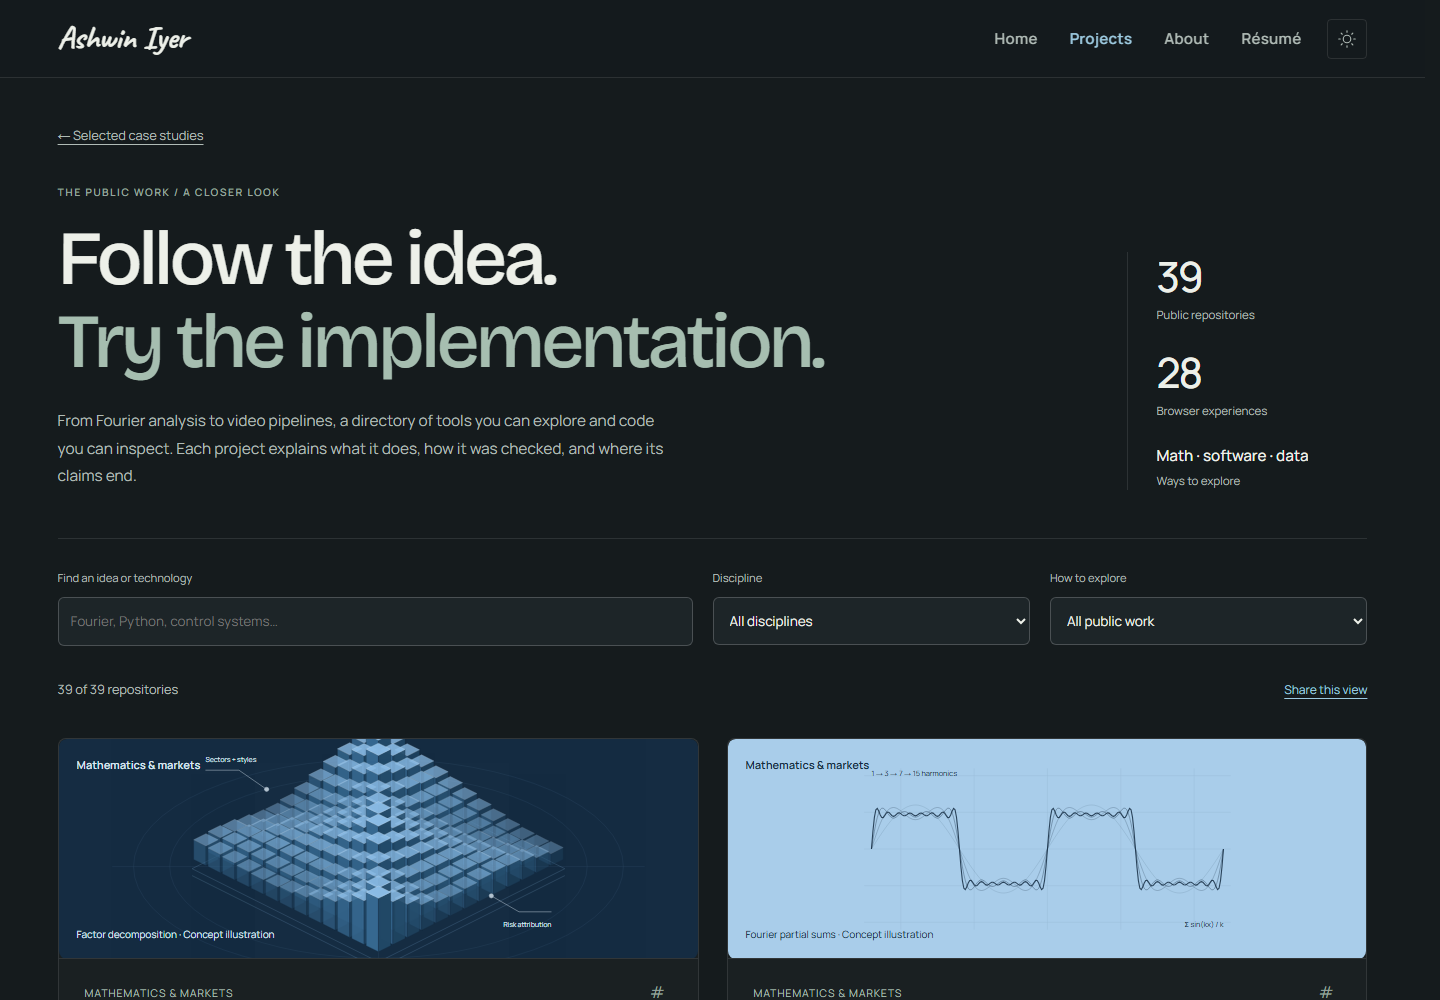
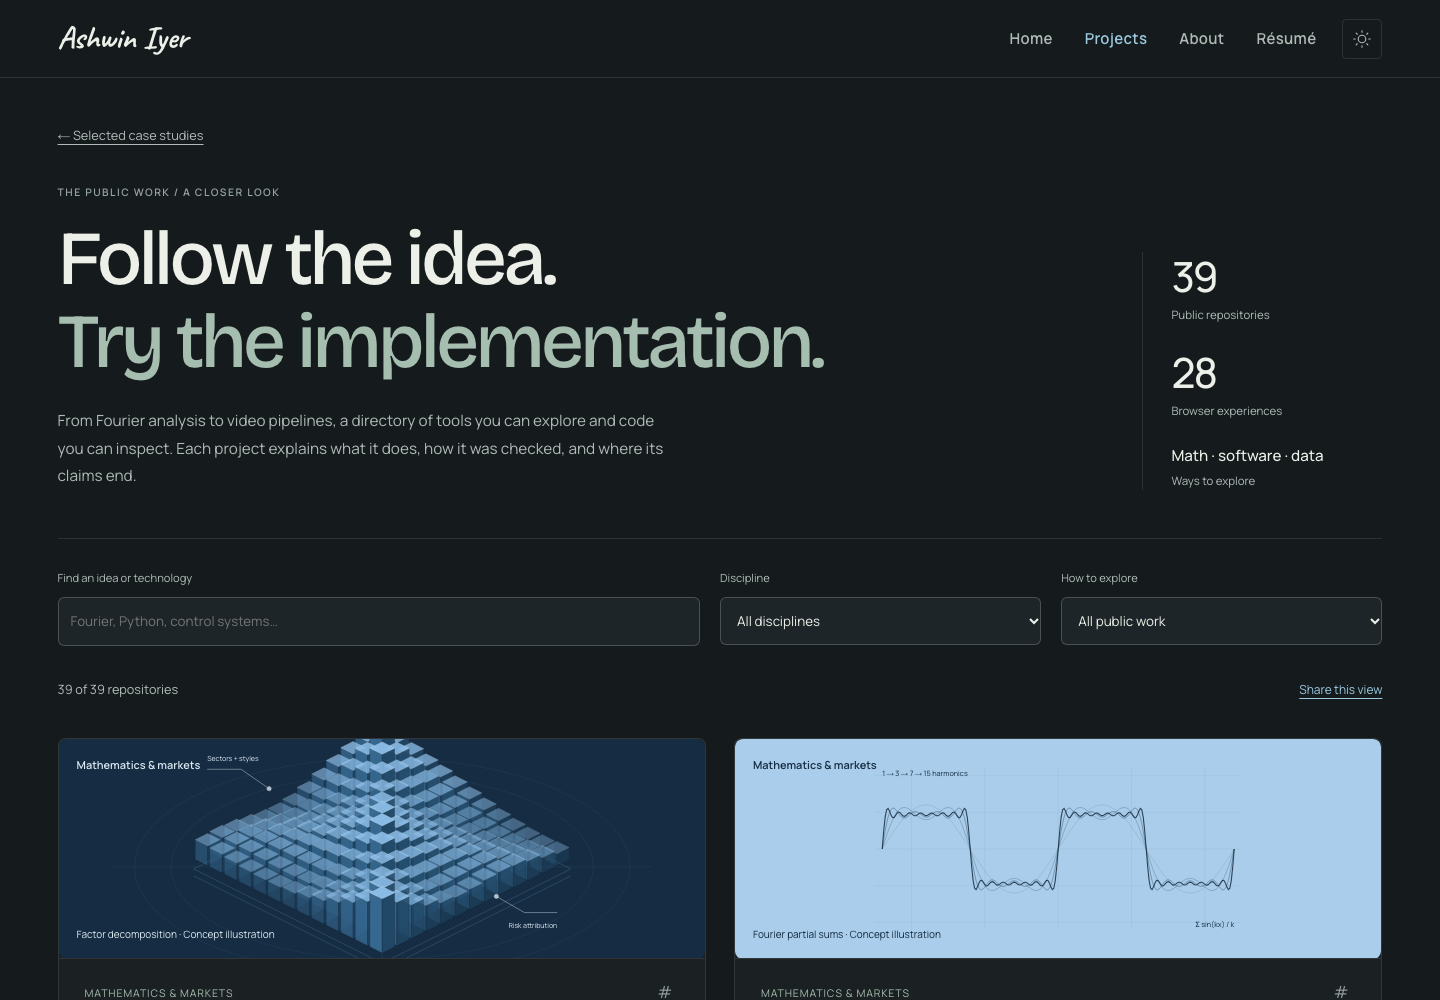
Refactor image components to use Next.js Image for better performance and update sitemap with new URLs

diff --git a/app/components/SongList.js b/app/components/SongList.js
@@ -3,6 +3,7 @@
 import React, { useEffect, useRef, useState } from "react";
 import localSongsData from "../data/songs.json"; // Fallback when the API is unavailable
 import styles from "./SongList.module.css";
+import Image from "next/image";
 
 const SongList = () => {
   const songRefs = useRef([]);
@@ -88,11 +89,13 @@ const SongList = () => {
           }}
           className={styles.songItem}
         >
-          <img
+          <Image
             src={song.songcoverlink}
             alt={`${song.song_name} cover`}
             className={styles.songCover}
             loading="lazy"
+            width={100}
+            height={100}
           />
           <div className={styles.songInfo}>
             <h3 className={styles.songName} title={song.song_name}>

diff --git a/app/components/COC.js b/app/components/COC.js
@@ -63,10 +63,12 @@ export default function COC() {
                 <dt className={styles.statLabel}>League</dt>
                 <dd className={styles.statValue}>
                   {COCData.league.iconUrls?.tiny && (
-                    <img
+                    <Image
                       src={COCData.league.iconUrls.tiny}
                       alt=""
                       className={styles.leagueIcon}
+                      width={100}
+                      height={100}
                     />
                   )}
                   {COCData.league.name}
